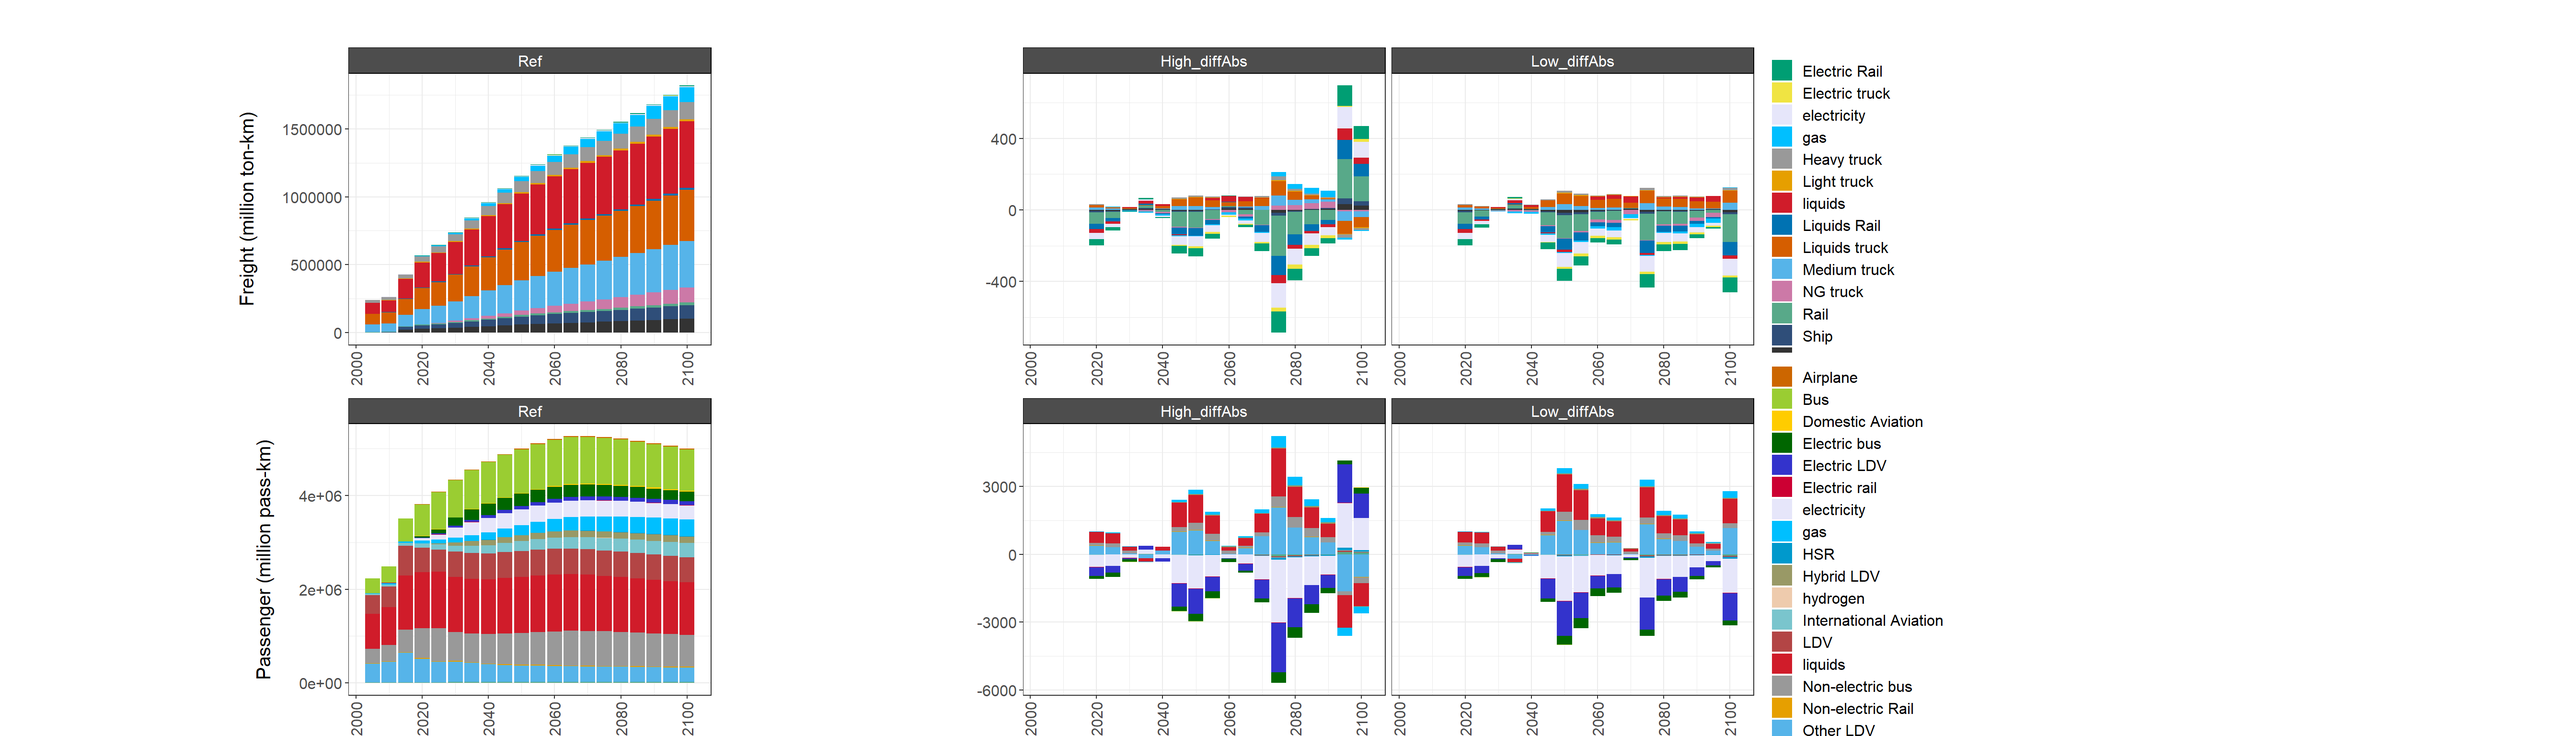
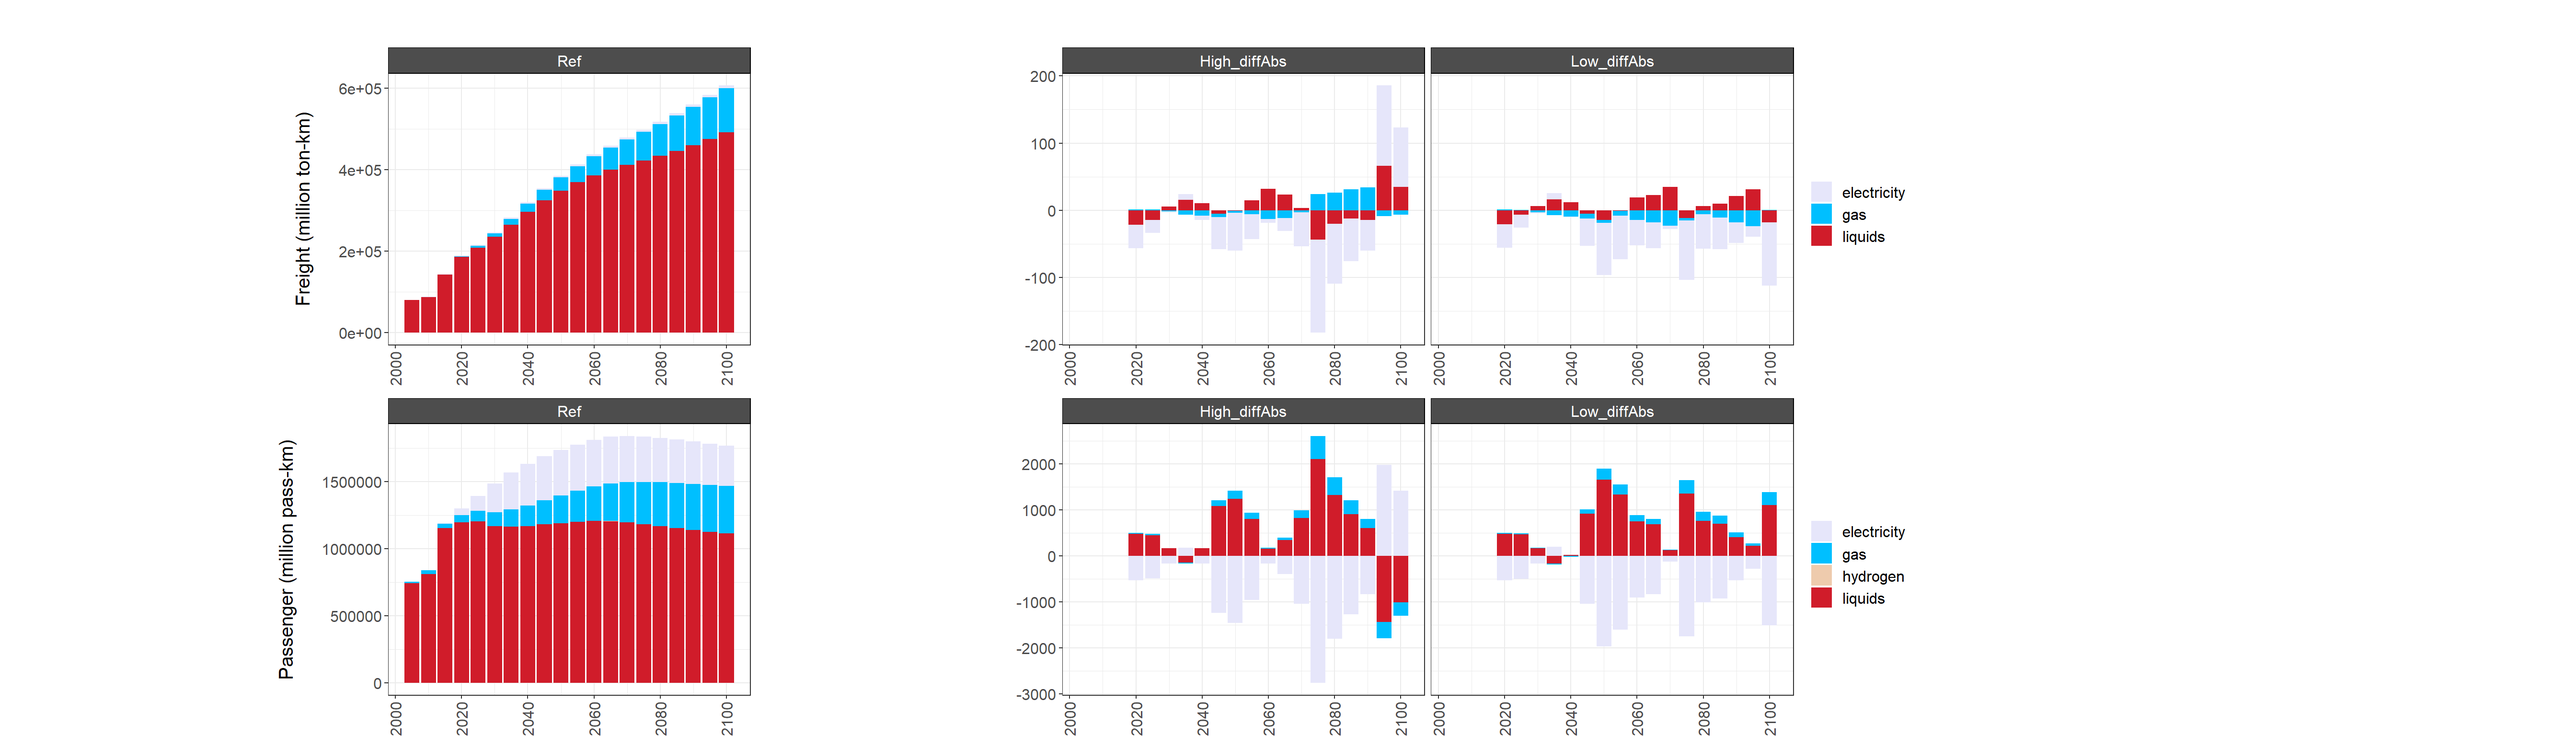
Malaysia - adjust LED low

diff --git a/webpage/_site/header.html b/webpage/_site/header.html
@@ -294,6 +294,26 @@ $(document).ready(function () {
 
 
 <!-- Allow href to tabsets -->
+<pre class="js"><code>window.onload = function() {
+  document.querySelector(&#39;a[href=&quot;&#39; + window.location.href.match(&quot;#.*$&quot;) + &#39;&quot;]&#39;).click();
+}
+
+function goToTab() {
+  var hash = String(window.location.href.match(&quot;#.*$&quot;));
+  var target = document.querySelector(&quot;a[role = &#39;tab&#39;][href=&#39;&quot; + hash + &quot;&#39;]&quot;);
+  if (target !== null) {
+    var greatgrandparent = target.parentElement.parentElement.parentElement;
+    if (greatgrandparent.getAttribute(&quot;role&quot;) == &quot;tabpanel&quot;) {
+      document.querySelector(&quot;a[role = &#39;tab&#39;][href=&#39;#&quot; + greatgrandparent.getAttribute(&quot;id&quot;) + &quot;&#39;]&quot;).click();
+    }
+    target.click();
+    target.scrollIntoView();
+  }
+}
+window.onload = function() {
+  setTimeout(goToTab, 100);
+}
+window.onhashchange = goToTab;</code></pre>
 <script type="text/javascript">
 window.onload = function() {
   document.querySelector('a[href="' + window.location.href.match("#.*$") + '"]').click();

diff --git a/webpage/_site/index.html b/webpage/_site/index.html
@@ -321,17 +321,14 @@ pathways in the selected ASEAN countries.</p>
 <div class="container_map_outer">
 <div class="container_map">
 <p><a href = "thailand.html">
-<img src="images/thailand.jpg" width="100%" style="display: block; margin: auto;" />
-</a></p>
+<img src="images/thailand.jpg" width="100%" /> </a></p>
 </div>
 <div class="container_map">
 <p><a href = "malaysia.html">
-<img src="images/malaysia.jpg" width="100%" style="display: block; margin: auto;" />
-</a></p>
+<img src="images/malaysia.jpg" width="100%" /> </a></p>
 </div>
 <div class="container_map">
-<p><a href = "index.html">
-<img src="images/vietnam.jpg" width="100%" style="display: block; margin: auto;" />
+<p><a href = "index.html"> <img src="images/vietnam.jpg" width="100%" />
 </a></p>
 </div>
 </div>

diff --git a/webpage/_site/modeling_malaysia.html b/webpage/_site/modeling_malaysia.html
@@ -2010,7 +2010,7 @@ transport_f$chart_class_Ref</code></pre>
                 show = F,
                 scenRef = &quot;Ref&quot;)
 
-transport_my$chart_class_diff_absolute</code></pre>
+transport_my_f$chart_class_diff_absolute</code></pre>
 <p><img src="modeling_malaysia_files/figure-html/rchart-transport-my-fuel-1.png" width="100%" style="display: block; margin: auto;" /></p>
 <p><br></p>
 </div>
